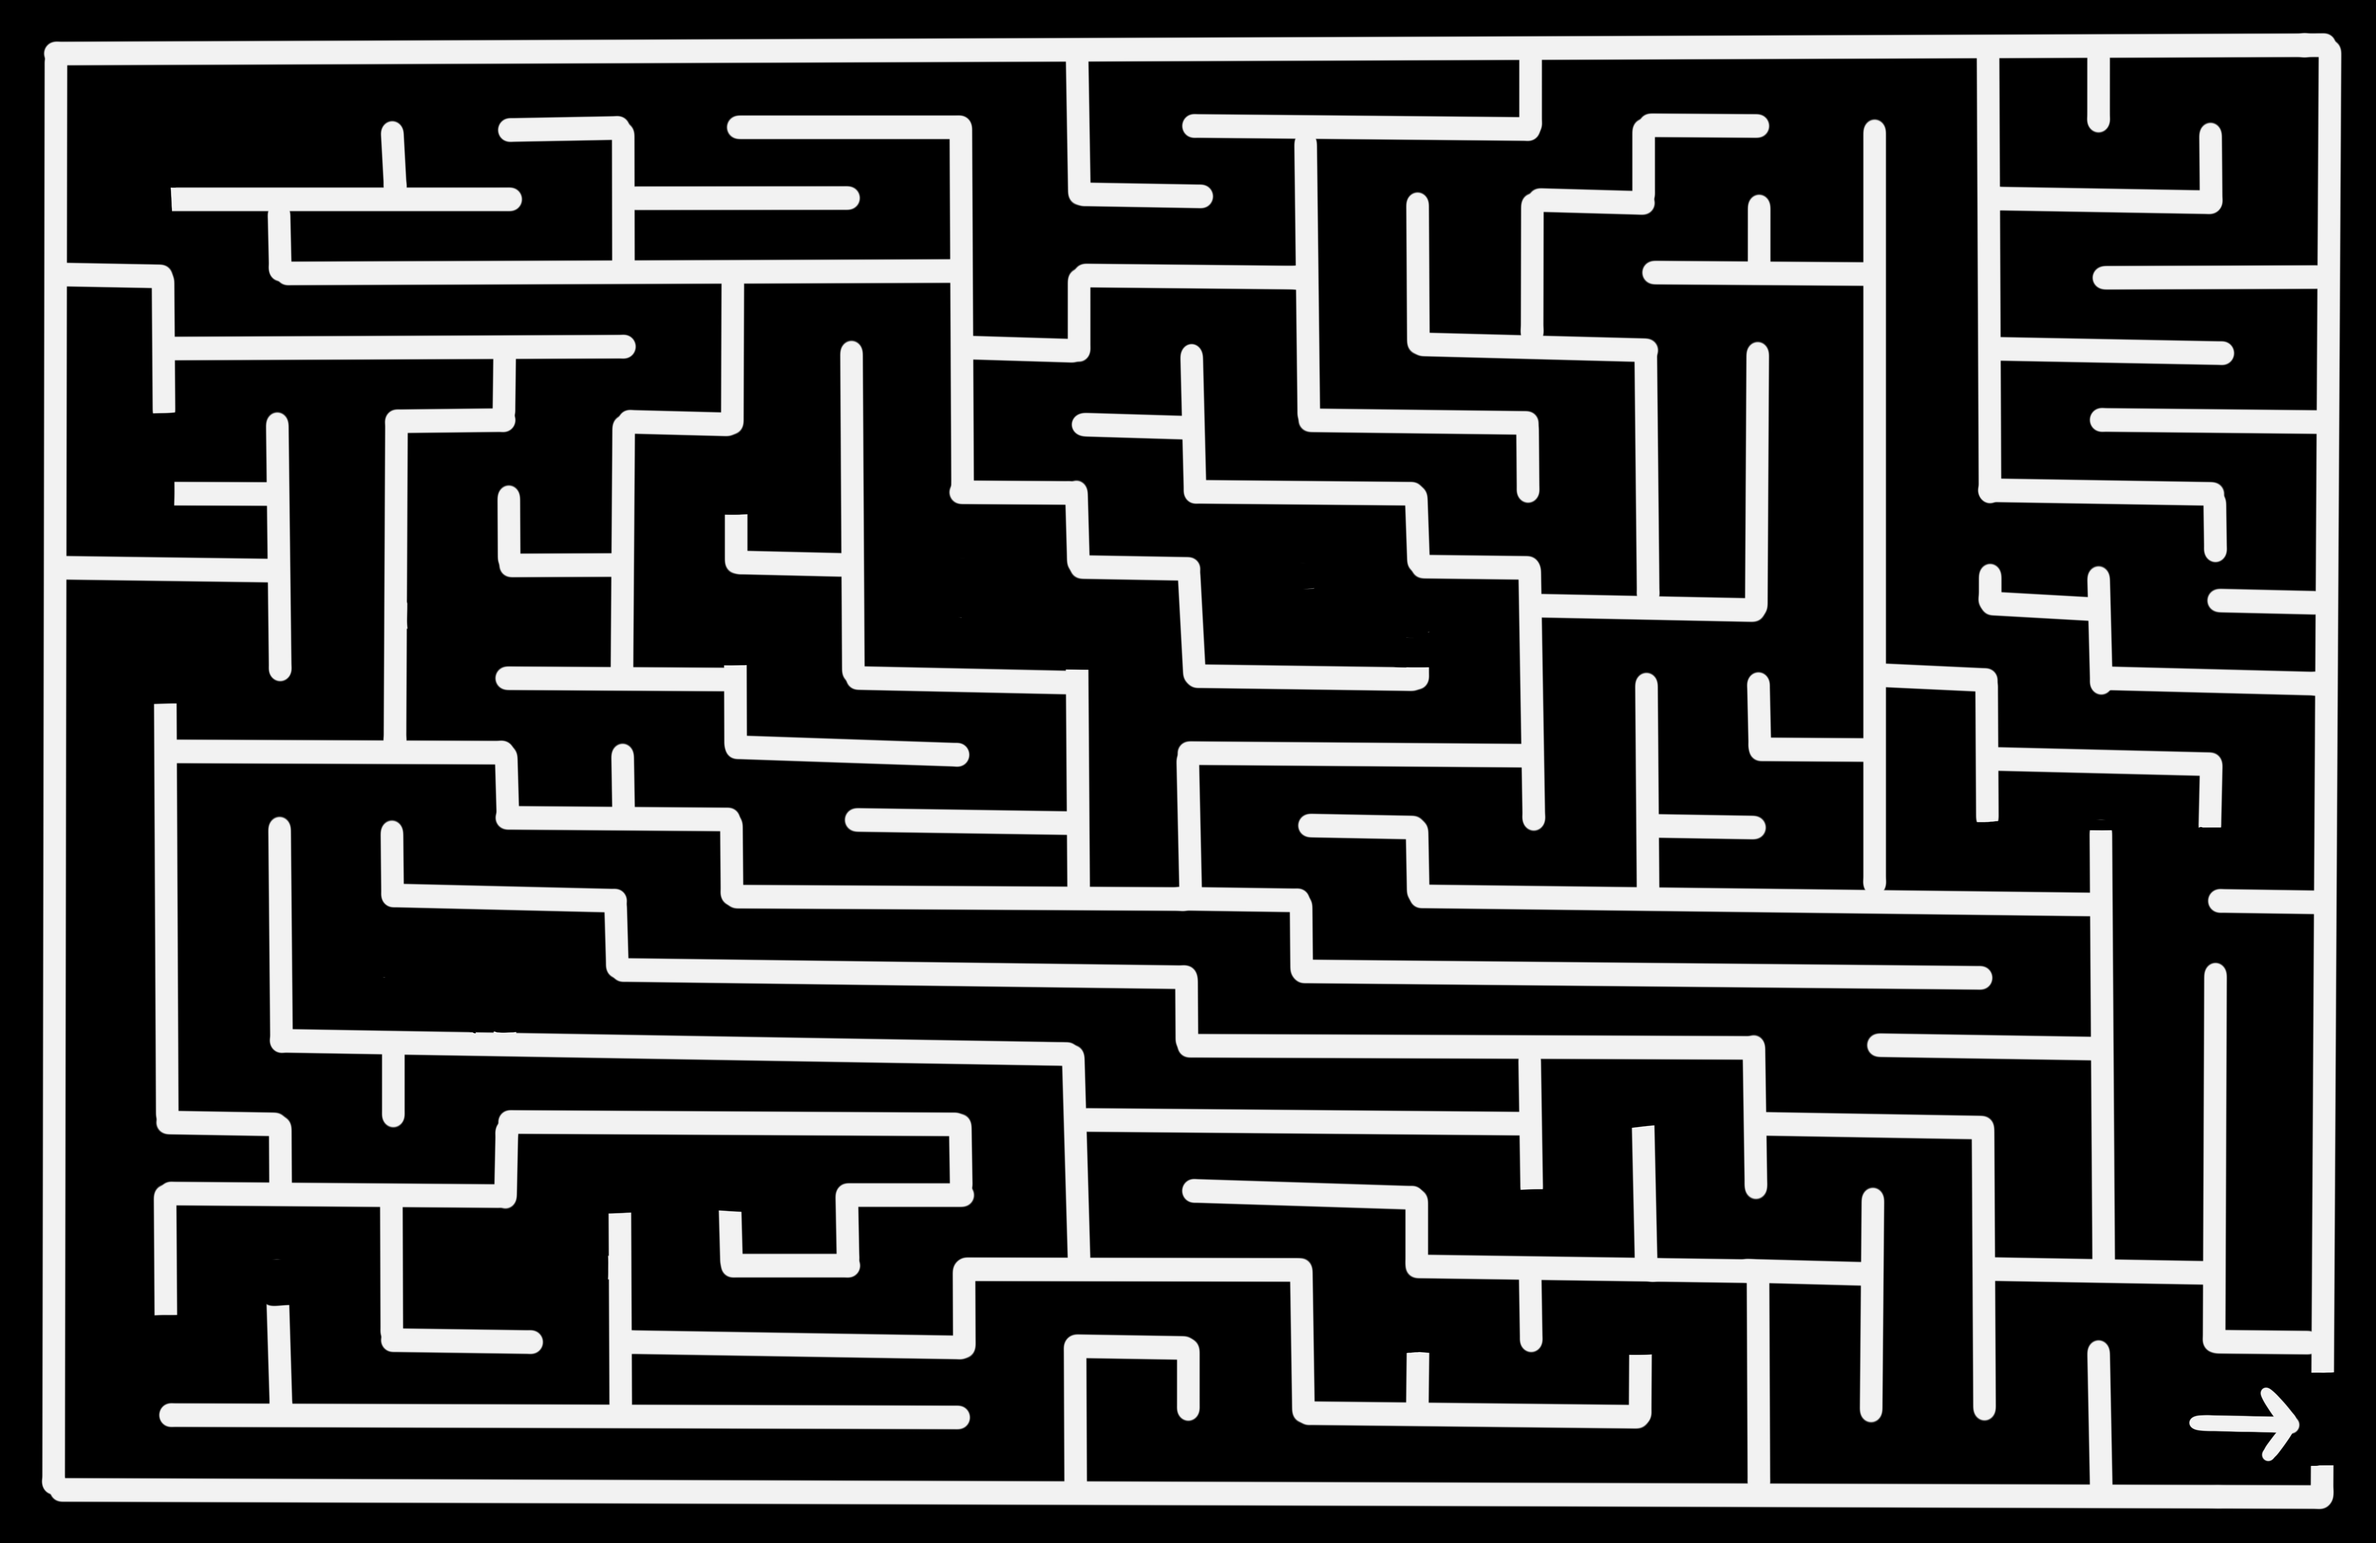
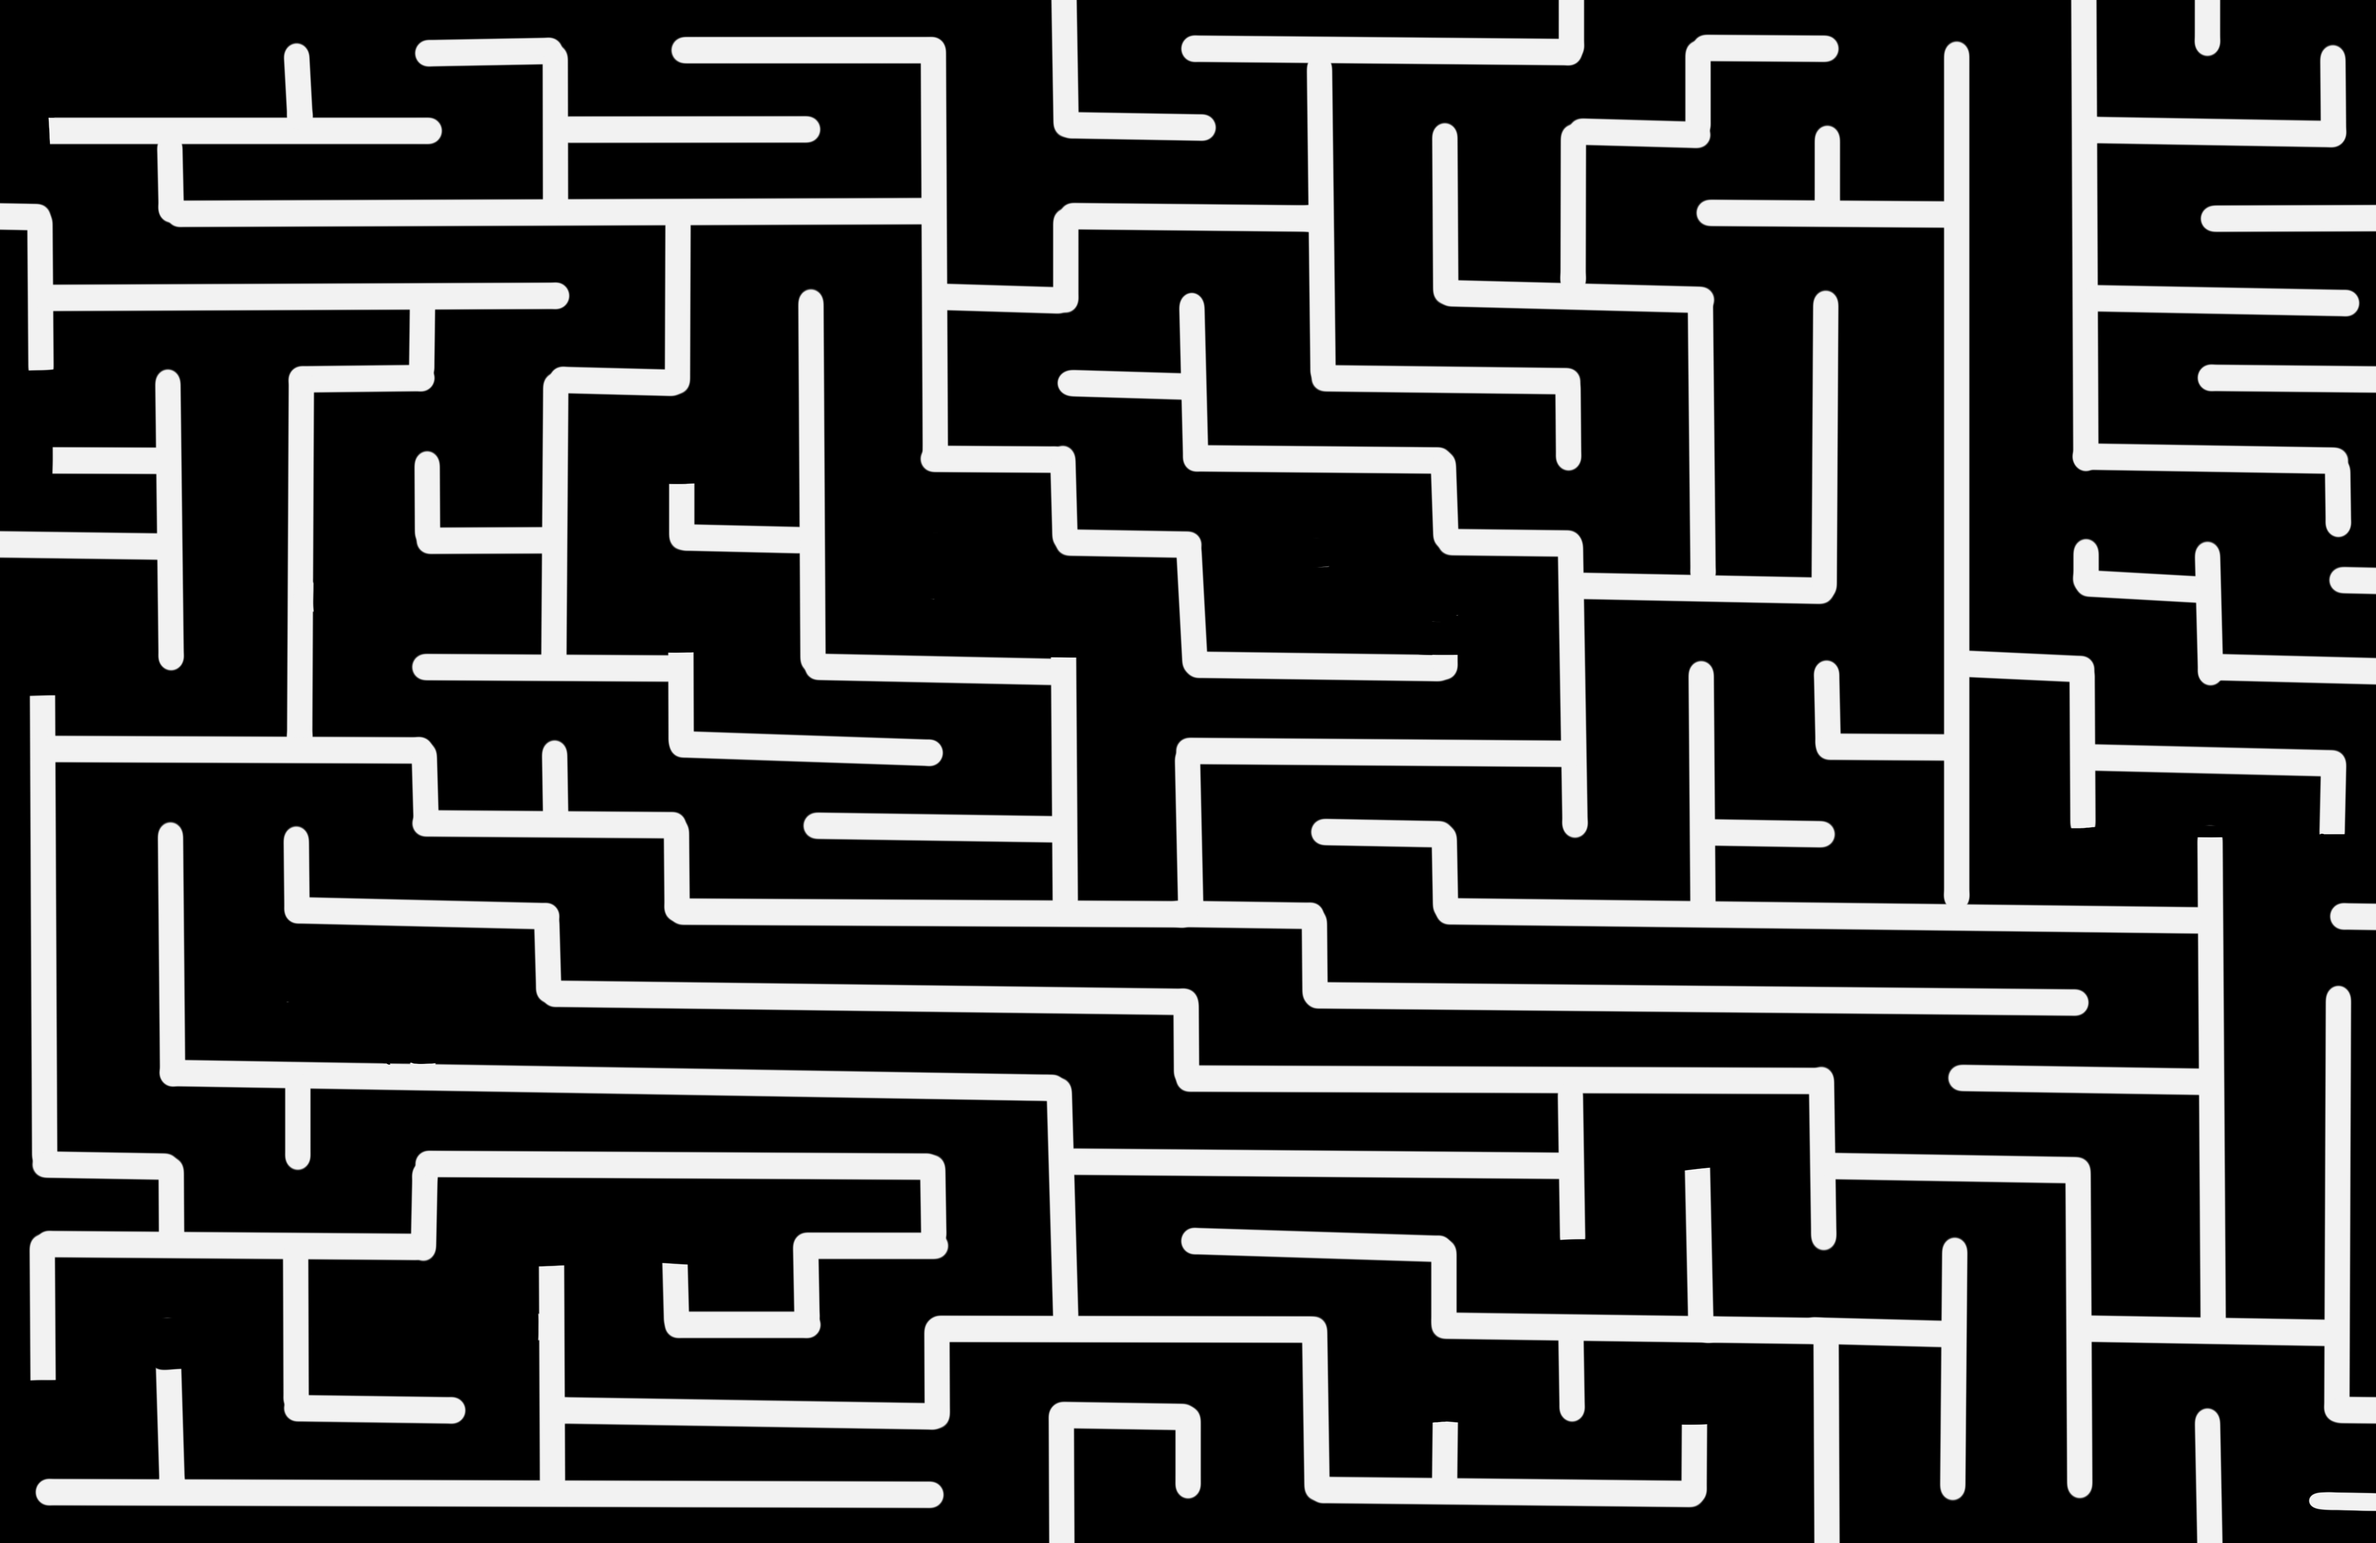
Adjust maze display scaling for wider navigation paths
Maze display adjustments:
- Set maze background-size to 90% to create wider corridors
- Add black background-color to fill surrounding space
- Center maze in viewport
- Corridors now 10% wider relative to character size

Result:
- Smoother navigation through narrow passages
- Better character-to-path proportions
- Character remains centered when moving along walls
- No changes to character size, collision logic, or movement

Maze design, proportions, and line thickness unchanged.
Character behavior (WASD movement) remains the same.

diff --git a/index.html b/index.html
@@ -37,9 +37,10 @@
             width: 100%;
             height: 100%;
             background-image: url('finalmaze/maze.png');
-            background-size: cover;
+            background-size: 90%;
             background-position: center;
             background-repeat: no-repeat;
+            background-color: #000000;
             z-index: 1;
         }
 
